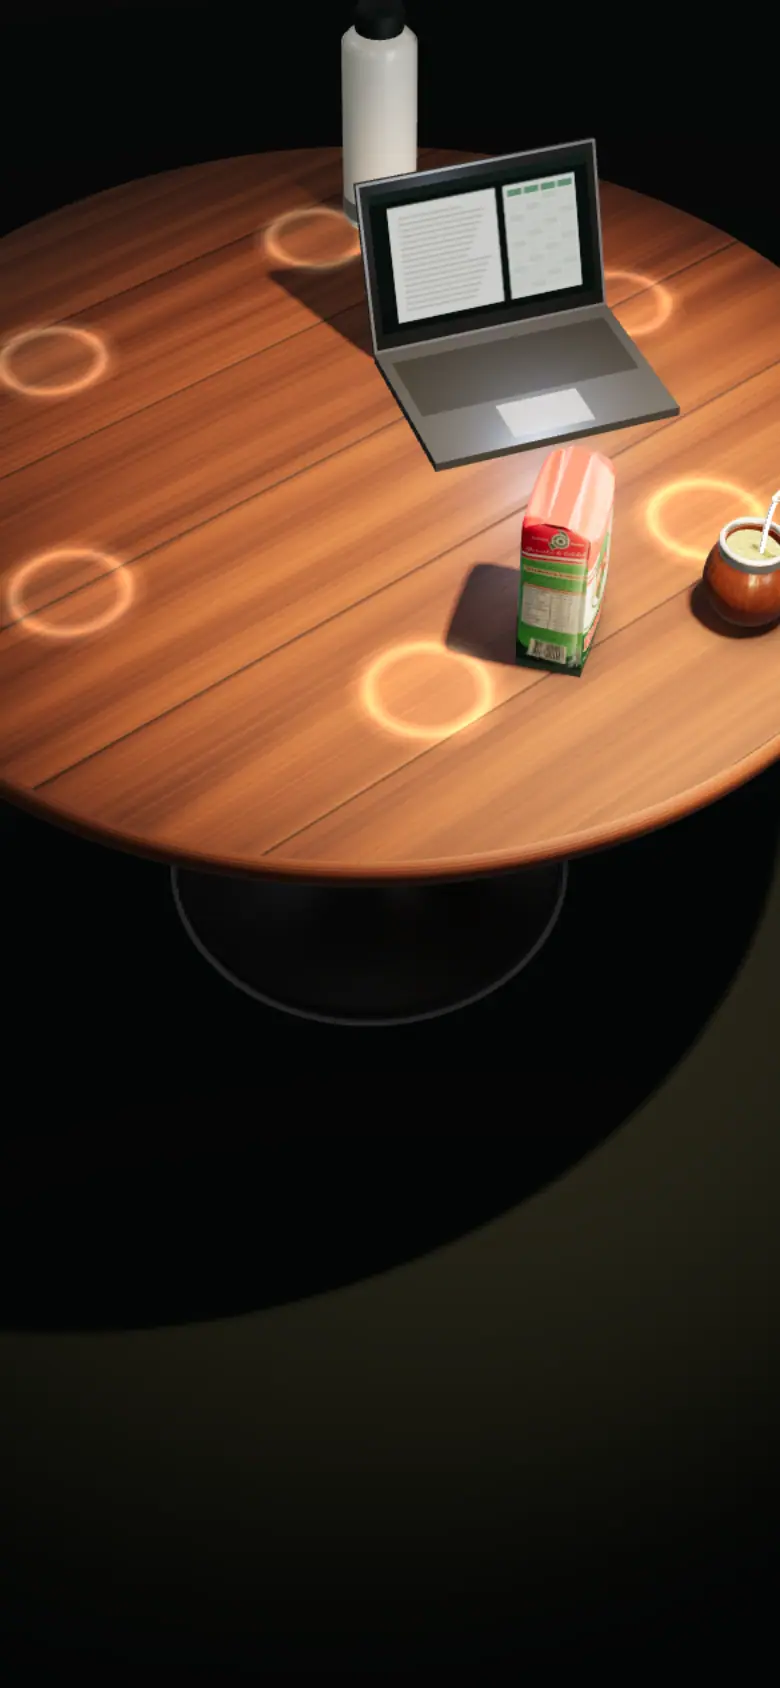
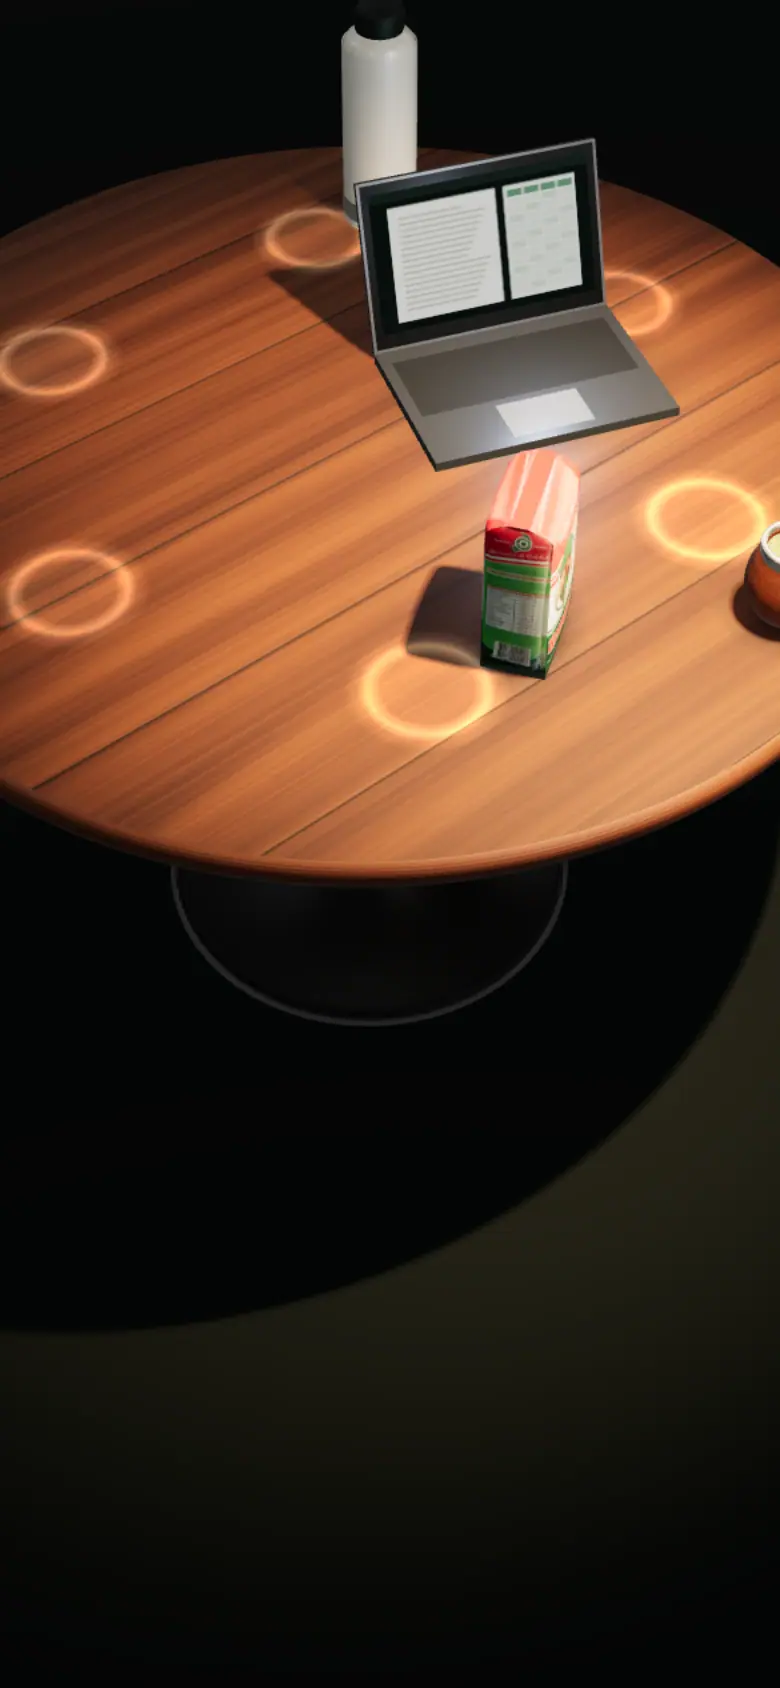
Revisión integral: titular sin recortes, color del envase y movimiento sin saltos
- Portada: la medida del titular sale del ancho de su columna (cqw); ninguna línea se recorta
- Máscaras de entrada: el estado final queda fuera de la caja (acentos y banda roja completos)
- Celular: la portada reparte alto, no queda tapada por la píldora y el texto tiene su velo (10,8:1)
- Escena: con el foco de marca el cono se abre y baja de intensidad; papel mate y más relleno
- Encuadre de marca abierto y envase completo; mate y envase separados para ver el logotipo
- Encabezado flexible y con cortes en em: sigue usable con texto ampliado
- Enlaces directos y saltos de capítulo: la escena aparece en su encuadre, sin barrido
- Montos de canales sin puntos suspensivos

Changed region(s): [[0.4923, 0.2464, 0.8, 0.4005], [0.8615, 0.2773, 1.0, 0.4005]]

diff --git a/src/scene/RondaScene.ts b/src/scene/RondaScene.ts
@@ -19,15 +19,15 @@ const v = (x: number, y: number, z: number) => new THREE.Vector3(x, y, z)
  * Disposición de la mesa (metros, vista desde arriba; la persona de la portada está del lado +z).
  * Los objetos se reacomodan escalonados (notebook, envase, termo) para no cruzarse al ir al centro.
  */
-const MAIN_START = v(0.13, 0, 0.47)
+const MAIN_START = v(0.16, 0, 0.5)
 /** Posición del mate en el primer cuadro: un poco atrás; en la entrada avanza y gira hacia quien mira. */
-const MAIN_PRE = v(0.118, 0, 0.44)
+const MAIN_PRE = v(0.148, 0, 0.47)
 const MAIN_END = seat(210)
 /** Lugar de quien visita: el borde de la mesa del lado de la cámara del cierre. */
 const VISITOR = v(-0.03, 0, -0.5)
 const EXTRA_SEATS = [150, 270, 90, 330, 30]
 const FREE_SEATS = [...EXTRA_SEATS, 210]
-const PACK = { start: v(-0.04, 0, 0.37), end: v(-0.08, 0, -0.04), rotStart: 0.6, rotEnd: 0.2 }
+const PACK = { start: v(-0.07, 0, 0.35), end: v(-0.08, 0, -0.04), rotStart: 0.6, rotEnd: 0.2 }
 // El termo empieza fuera del encuadre de la portada (atrás, a la derecha) y es el primero en ir al centro
 const TERMO = { start: v(0.3, 0, -0.34), end: v(0.1, 0, 0.04), rotStart: 0.3, rotEnd: 0.9 }
 const LAPTOP = { start: v(0.2, 0, 0.05), end: seat(60, 0.5), rotStart: -0.35, rotEnd: Math.PI / 3 }
@@ -265,9 +265,11 @@ export class RondaScene {
     this.lightTarget.lerp(this.mainMate.position, (1 - focus) * 0.18)
     this.spot.target.position.set(lerp(this.lightTarget.x, 0, L), 0, lerp(this.lightTarget.z, 0, L))
     this.spot.position.set(lerp(0.26, 0.05, L), lerp(1.28, 1.95, L), lerp(1.02, 0.3, L))
-    this.spot.angle = lerp(lerp(0.34, 0.23, focus), 0.72, L)
+    // Con el foco de marca el cono se abre: el envase recibe luz pareja en toda su cara
+    this.spot.angle = lerp(lerp(0.34, 0.42, focus), 0.72, L)
     this.spot.penumbra = lerp(0.9, 0.7, L)
-    this.spot.intensity = lerp(lerp(34, 40, focus), 58, L) * lerp(0.6, 1, reveal)
+    // …y baja de intensidad: de cerca, más luz solo lava los colores del packaging
+    this.spot.intensity = lerp(lerp(34, 23, focus), 58, L) * lerp(0.6, 1, reveal)
     if (invite > 0) {
       // La luz acompaña: se cierra apenas y se entibia sobre el lugar de quien recibe
       const warm = easeInOut(invite)
@@ -277,7 +279,8 @@ export class RondaScene {
     }
     this.kicker.target.position.copy(this.mainMate.position).setY(0.05)
     this.kicker.intensity = 1.6 * (1 - L) * (1 - focus * 0.6) * reveal
-    this.scene.environmentIntensity = lerp(0.12, 0.42, L) * (1 - 0.3 * focus * (1 - L))
+    // Relleno de entorno alto en el foco de marca: los verdes y rojos del envase se leen en la sombra
+    this.scene.environmentIntensity = lerp(0.12, 0.42, L) * (1 + 0.9 * focus * (1 - L))
     this.backdrop.uniforms.uAmount.value = lerp(0.3, 1, L)
   }
 

diff --git a/src/sections/Hero.css b/src/sections/Hero.css
@@ -12,10 +12,16 @@
   letter-spacing: 0.02em;
 }
 
+.opening .chapter__panel {
+  /* La columna es el contenedor de medida del titular */
+  container-type: inline-size;
+}
+
 .opening__title {
   color: var(--blanco);
-  font-size: clamp(3rem, 1.1rem + 5.3vw, 6.5rem);
-  line-height: 0.93;
+  /* La medida sale del ancho real de la columna, no del viewport: las líneas nunca se pasan */
+  font-size: min(6rem, max(2.6rem, 16.8cqw));
+  line-height: 1.06;
   letter-spacing: -0.035em;
   text-shadow: 0 4px 40px rgba(0, 8, 4, 0.5);
   text-wrap: initial;
@@ -29,7 +35,7 @@
 /* “se ofrece.”: blanco sobre la banda roja del envase (contraste suficiente sobre la escena) */
 .opening__accent {
   margin-left: -0.06em;
-  padding: 0 0.1em 0.03em;
+  padding: 0 0.1em 0.04em;
   background: var(--rojo);
   text-shadow: none;
   -webkit-box-decoration-break: clone;
@@ -88,7 +94,8 @@
   }
   to {
     opacity: 1;
-    clip-path: inset(-0.3em -0.2em -0.3em -0.2em);
+    /* Al terminar, la máscara queda fuera de la caja: no recorta ninguna letra */
+    clip-path: inset(-0.4em -100% -0.4em -100%);
     translate: 0 0;
   }
 }
@@ -141,11 +148,66 @@
 
 @media (max-width: 899px) {
   .opening__title {
-    font-size: clamp(2.6rem, 11.5vw, 4rem);
+    font-size: min(4.75rem, max(2.35rem, 15cqw));
+  }
+
+  /* Velo propio detrás del texto: la madera iluminada no le quita contraste a la volanta */
+  .opening .chapter__panel {
+    position: relative;
+    isolation: isolate;
+  }
+
+  .opening .chapter__panel::before {
+    content: '';
+    position: absolute;
+    z-index: -1;
+    inset: -7rem calc(var(--gutter) * -1) -100vh;
+    background: linear-gradient(180deg, rgba(2, 10, 6, 0) 0%, rgba(2, 10, 6, 0.55) 6%, rgba(2, 10, 6, 0.88) 18%, rgba(2, 10, 6, 0.95) 34%, rgba(2, 10, 6, 0.96) 100%);
+    pointer-events: none;
+  }
+
+  /* La escena ocupa menos alto y el bloque termina por encima de la píldora de capítulo */
+  .opening .chapter__inner {
+    padding-top: calc(var(--header-h) + 33svh);
+    padding-bottom: 6.5rem;
+  }
+
+  .opening__actions {
+    gap: 0.75rem 1.25rem;
   }
 
   .opening__line {
     white-space: normal;
+  }
+
+  .opening__cue {
+    display: none;
+  }
+}
+
+/* Pantallas de poca altura (portátiles 768 px, celular apaisado): el bloque entra completo */
+@media (max-height: 760px) and (min-width: 900px) {
+  .opening__title {
+    font-size: min(4.5rem, max(2.4rem, 13cqw));
+  }
+
+  .opening__lede {
+    font-size: 1.0625rem;
+  }
+
+  .opening .chapter__panel {
+    gap: 0.75rem;
+  }
+}
+
+@media (max-height: 620px) {
+  .opening__title {
+    font-size: min(3.25rem, max(2.1rem, 11cqw));
+  }
+
+  .opening__lede {
+    max-width: 40ch;
+    font-size: 1rem;
   }
 
   .opening__cue {

diff --git a/src/components/SceneCanvas.tsx b/src/components/SceneCanvas.tsx
@@ -76,6 +76,8 @@ export function SceneCanvas() {
     let currentPoster = ''
     let marks: { key: string; top: number }[] = []
     let theater = false
+    /** Último scroll aplicado: un salto grande (enlace directo o ir a un capítulo) se resuelve sin barrido de cámara. */
+    let lastScroll = window.scrollY
 
     /* Entrada de la portada: empieza cuando la escena está lista (el primer cuadro coincide con el render fijo) */
     let introTime = capture || reduced.matches ? INTRO.total : -INTRO.delay
@@ -219,7 +221,10 @@ export function SceneCanvas() {
       const goal = flatten(shot)
       // Las secuencias siguen su propia curva (sin la amortiguación del scroll)
       const sequence = inviteDirection !== 0 || introActive || findingActive
-      if (!current || capture || reduced.matches || sequence) current = goal.slice()
+      // Salto de scroll grande: la escena aparece ya en su encuadre, sin cruzar la mesa a toda velocidad
+      const jumped = Math.abs(window.scrollY - lastScroll) > window.innerHeight * 1.5
+      lastScroll = window.scrollY
+      if (!current || capture || reduced.matches || sequence || jumped) current = goal.slice()
       let moving = sequence
       const k = 1 - Math.exp(-dt * 6)
       for (let i = 0; i < goal.length; i++) {
@@ -335,7 +340,8 @@ export function SceneCanvas() {
             })
             scene.resize(window.innerWidth, window.innerHeight)
             // Solo en modo captura: acceso a la escena para las verificaciones automáticas
-            if (capture) probe.__ronda!.scene = scene
+            // La escena queda a mano para medir el movimiento en pruebas (captura y desarrollo; no en producción)
+            if (capture || import.meta.env.DEV) probe.__ronda!.scene = scene
             kick()
           } catch {
             setMode('fallback')

diff --git a/src/scene/shots.ts b/src/scene/shots.ts
@@ -52,13 +52,13 @@ export const SHOTS: Record<string, ShotInput> = {
   aperturaInicio: {
     cam: [0.66, 0.24, 1.18], target: [0.09, 0.1, 0.36], fov: 27, fx: 0.2, fy: 0.03,
     light: 0, lid: 1, offer: 0, ronda: 0, gather: 0, dim: 0, intro: 0, focus: 0.35,
-    mobile: { cam: [0.44, 0.35, 1.38], target: [0.04, 0.1, 0.39], fov: 36, fx: 0, fy: 0.22 },
+    mobile: { cam: [0.5, 0.38, 1.6], target: [0.05, 0.1, 0.38], fov: 35, fx: 0.05, fy: 0.26 },
   },
   // Portada: Romance y el mate en primer plano; la notebook atrás, como contexto del consumo individual
   apertura: {
     cam: [0.56, 0.2, 1.06], target: [0.09, 0.1, 0.36], fov: 27, fx: 0.2, fy: 0.03,
     light: 0, lid: 1, offer: 0, ronda: 0, gather: 0, dim: 0, focus: 0.35,
-    mobile: { cam: [0.37, 0.3, 1.24], target: [0.04, 0.1, 0.39], fov: 36, fx: 0, fy: 0.22 },
+    mobile: { cam: [0.43, 0.33, 1.46], target: [0.05, 0.1, 0.38], fov: 35, fx: 0.05, fy: 0.26 },
   },
   // Hallazgo 59,7%: el puesto de una persona (su mate, la notebook y el envase)
   hallazgo: {
@@ -80,7 +80,7 @@ export const SHOTS: Record<string, ShotInput> = {
   },
   // La marca: acercamiento al frente del envase y su medallón de dos manos
   marca: {
-    cam: [0.16, 0.15, 0.8], target: [-0.04, 0.1, 0.37], fov: 24, fx: 0.2, fy: 0,
+    cam: [0.2, 0.17, 0.97], target: [-0.04, 0.12, 0.37], fov: 26, fx: 0.2, fy: 0,
     light: 0.12, lid: 1, offer: 0, ronda: 0, gather: 0, dim: 0, focus: 1,
     mobile: { cam: [0.2, 0.22, 1.02], target: [-0.04, 0.1, 0.37], fov: 32, fx: 0, fy: 0.3 },
   },

diff --git a/src/scene/kit.ts b/src/scene/kit.ts
@@ -38,7 +38,8 @@ export function createKit(renderer: THREE.WebGLRenderer, events: { onChange: () 
   const metal = new THREE.MeshPhysicalMaterial({ color: 0xd0ccc4, metalness: 1, roughness: 0.32, anisotropy: 0.55, envMapIntensity: 0.8 })
   // Madera aceitada (satinada), no barnizada: reflejos amplios y suaves; poros y juntas levemente hundidos
   const wood = new THREE.MeshPhysicalMaterial({ map: textures.woodColor, roughnessMap: textures.woodRough, roughness: 1, clearcoat: 0.1, clearcoatRoughness: 0.65, bumpMap: textures.woodRough, bumpScale: -0.7 })
-  const paper = (map: THREE.Texture) => new THREE.MeshPhysicalMaterial({ map, roughness: 0.58, clearcoat: 0.25, clearcoatRoughness: 0.45 })
+  // Papel mate: menos brillo especular, para que la impresión del envase no se lave con la luz de estudio
+  const paper = (map: THREE.Texture) => new THREE.MeshPhysicalMaterial({ map, roughness: 0.72, clearcoat: 0.1, clearcoatRoughness: 0.6 })
   // Caras del envase: +x lateral, −x lateral (repite el lateral visible), tapa, base, frente, dorso (repite el frente)
   const front = paper(textures.packFront)
   const side = paper(textures.packSide)

diff --git a/src/components/Header.css b/src/components/Header.css
@@ -66,10 +66,12 @@
 .site-header__bar {
   position: relative;
   display: flex;
+  /* Con texto muy ampliado la barra crece y se acomoda en dos filas en vez de recortarse */
+  flex-wrap: wrap;
   align-items: center;
   justify-content: space-between;
-  gap: 1rem;
-  height: var(--header-h);
+  gap: 0.5rem 1rem;
+  min-height: var(--header-h);
   padding-inline: var(--edge);
 }
 
@@ -97,7 +99,8 @@
 
 .site-nav__list {
   display: flex;
-  gap: clamp(1.25rem, 2.6vw, 2.75rem);
+  flex-wrap: wrap;
+  gap: 0.25rem clamp(1.25rem, 2.6vw, 2.75rem);
   margin: 0;
   padding: 0;
   list-style: none;
@@ -236,7 +239,8 @@
   background: var(--verde-hoja);
 }
 
-@media (min-width: 900px) and (max-width: 1180px) {
+/* Cortes en em: el encabezado también se adapta cuando la persona amplía el texto del navegador */
+@media (min-width: 56.25em) and (max-width: 73.75em) {
   .site-header__present,
   .site-header__ask {
     padding-inline: 0.7rem;
@@ -260,7 +264,7 @@
   }
 }
 
-@media (max-width: 899px) {
+@media (max-width: 56.1875em) {
   .site-header__toggle {
     display: inline-flex;
     flex: none;

diff --git a/src/sections/Activation.css b/src/sections/Activation.css
@@ -169,14 +169,14 @@
   grid-column: 2;
   justify-self: start;
   max-width: 100%;
-  overflow: hidden;
-  text-overflow: ellipsis;
   padding: 0.2rem 0.5rem;
   border-radius: 999px;
   background: rgba(255, 255, 255, 0.12);
   font-size: 0.75rem;
   font-weight: 600;
-  white-space: nowrap;
+  line-height: 1.3;
+  /* Los montos largos bajan de línea en vez de cortarse */
+  white-space: normal;
 }
 
 .channel.is-active .channel__budget {

diff --git a/src/styles/global.css b/src/styles/global.css
@@ -429,7 +429,8 @@ html.is-theater .scene {
 }
 
 .reveal-ready [data-reveal='title'] {
-  clip-path: inset(-0.2em -0.1em -0.3em -0.1em);
+  /* Estado final sin recorte: acentos, bandas y descendentes quedan completos */
+  clip-path: inset(-0.3em -100% -0.4em -100%);
   transition:
     clip-path 950ms var(--ease) var(--reveal-delay, 90ms),
     translate 950ms var(--ease) var(--reveal-delay, 90ms);

diff --git a/README.md b/README.md
@@ -19,9 +19,16 @@ La apertura muestra una situación individual y el cierre revela una ronda compa
   contraluz cálido que marca la textura de la calabaza. Entrada coordinada de 2,6 s: aparece el titular, la cámara
   revela el producto y el mate hace un pequeño giro de invitación. El primer cuadro (`aperturaInicio`) ya está compuesto
   y es también el render de respaldo.
+- **El titular entra siempre**: la medida del titular de portada se calcula sobre el ancho real de su columna
+  (`container-type: inline-size` + `cqw`), no sobre el ancho de la ventana, así ninguna línea se sale ni se recorta.
+  Las máscaras de entrada terminan fuera de la caja (`inset` negativo), de modo que acentos, bandas rojas y
+  descendentes quedan completos una vez terminada la animación.
 - **Estudio oscuro en verdes de Romance** (ciclorama verde noche con un halo en el horizonte), una sola mesa redonda
   de algarrobo aceitado y objetos de escala real: mates, bombillas de alpaca, termo esmaltado, notebook y el envase
   de Romance Tradicional de 1 kg.
+- **El envase conserva sus colores**: cuando la cámara se acerca a Romance, el cono de luz se abre y baja de
+  intensidad, y sube el relleno de entorno; el papel es mate (poco brillo especular). Así el rojo y el verde del
+  packaging se leen en vez de lavarse.
 - **La luz cuenta la historia**: al principio es un foco cálido sobre una sola persona (la mesa en penumbra);
   al final baña toda la mesa. Un contraluz tenue recorta las siluetas.
 - **Objetos que conectan escenas**: la notebook abierta (el mate frente a una pantalla) se cierra en el insight;
@@ -127,6 +134,13 @@ materiales y luz de la mesa (`src/film/ConceptFilm.ts`, guion en `src/film/timel
 - La escena es decorativa (`aria-hidden`); cada capítulo describe en texto lo que muestra.
 - **Enlaces directos** (`#hallazgo`, `#activacion`, …): `src/hooks/useHashLanding.ts` vuelve a alinear el capítulo
   mientras cargan fuentes, imágenes y escena, y se detiene apenas la persona interactúa.
+- **Contraste medido sobre la escena**: los textos sobre la mesa se verificaron ocultando el texto y midiendo el
+  fondo real (portada en celular: 10,8:1 de media y 7,4:1 en la zona más clara). En celular, el bloque de texto de
+  la portada se apoya sobre un velo propio para que la madera iluminada no le quite contraste a la volanta.
+- **Texto ampliado**: el encabezado se acomoda en dos filas y sus cortes están en `em`, así el menú y el asistente
+  siguen alcanzables cuando se agranda el texto del navegador.
+- **Saltos de scroll**: al entrar por un enlace directo o saltar de capítulo, la escena aparece ya en su encuadre en
+  vez de cruzar la mesa a toda velocidad (`SceneCanvas.tsx` compara el desplazamiento entre cuadros).
 - **Cursor medallón**: solo con mouse; sobre textos se achica y se vuelve translúcido, sobre controles queda solo el anillo.
 - Materiales: madera con poro en relieve, alpaca con reflejo anisotrópico controlado, calabaza con pequeñas
   irregularidades de superficie y rugosidad variable; sombras suaves (VSM) y sombras de contacto degradadas.
